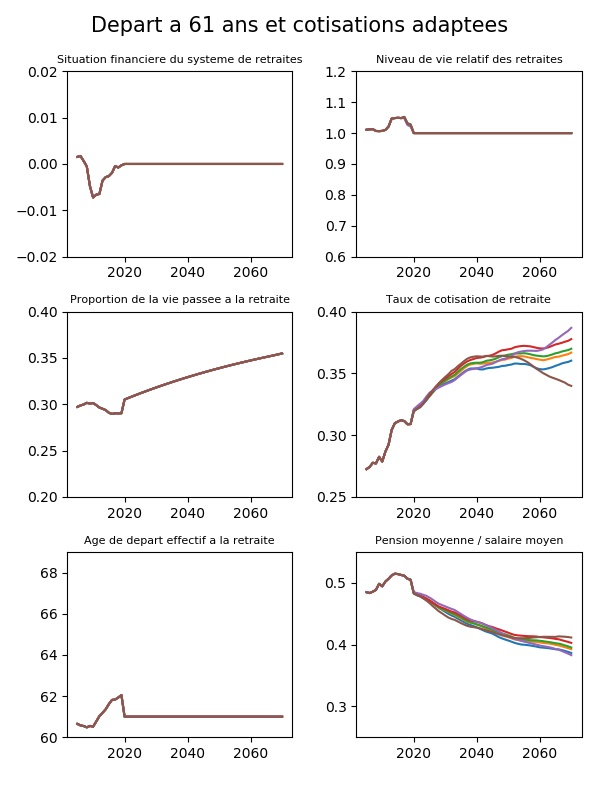
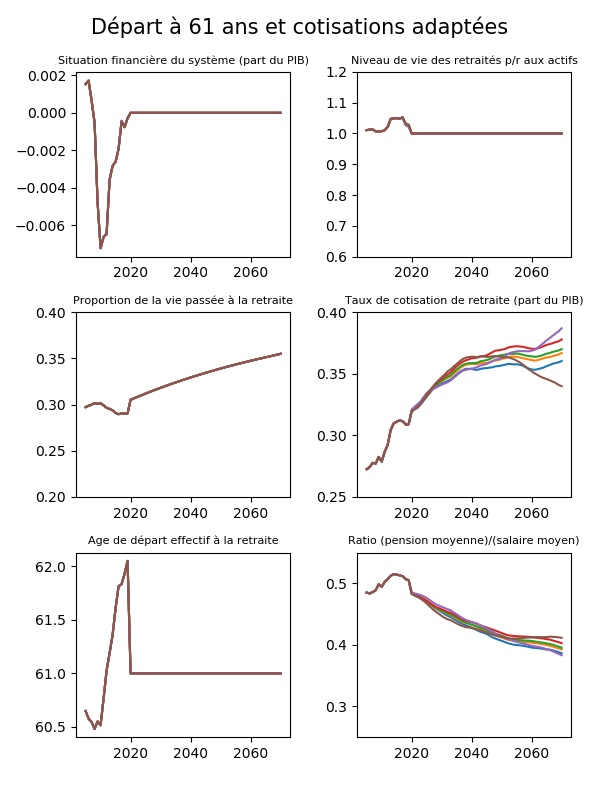
graphismes

diff --git a/demo.py b/demo.py
@@ -8,24 +8,26 @@ from retraites import *
 
 def graphique(v,t,rg=[],an=annees):
     for s in scenarios:
-        plot(an, [ v[s][a] for a in an ])
-    title(t,fontsize=8)
+        plot(an, [ v[s][a] for a in an ])#, label="%d"%s)
+    title(t.decode("utf-8"),fontsize=8)
     if rg!=[]:
         ylim(bottom=rg[0],top=rg[1])
     
+    
 def graphiques(T, P, A, S, RNV, REV, B):
     subplot(3,2,1)
-    graphique(S,"Situation financiere du systeme de retraites")#,[-0.02,0.02] )
+    graphique(S,"Situation financière du système (part du PIB)")#,[-0.02,0.02] )
     subplot(3,2,2)
-    graphique(RNV,"Niveau de vie relatif des retraites", [0.6,1.2])
+    graphique(RNV,"Niveau de vie des retraités p/r aux actifs", [0.6,1.2])
     subplot(3,2,3)
-    graphique(REV,"Proportion de la vie passee a la retraite", [0.2,0.4])
+    graphique(REV,"Proportion de la vie passée à la retraite", [0.2,0.4])
     subplot(3,2,4)
-    graphique(T,"Taux de cotisation de retraite", [0.25,0.4] )
+    graphique(T,"Taux de cotisation de retraite (part du PIB)", [0.25,0.4] )
     subplot(3,2,5)
-    graphique(A,"Age de depart effectif a la retraite")#, [60,65])
+    graphique(A,"Age de départ effectif à la retraite")#, [60,65])
     subplot(3,2,6)
-    graphique(P,"Pension moyenne / salaire moyen", [.25,.55] )
+    graphique(P,"Ratio (pension moyenne)/(salaire moyen)", [.25,.55] )
+    #legend(loc='best')
     tight_layout(rect=[0, 0.03, 1, 0.95])
 
     
@@ -67,25 +69,25 @@ def simu1():
     B,NR,NC,G,dP,TPR,TPS,CNV,EV=get('B'),get('NR'),get('NC'),get('G'),get('dP'),get('TCR'),get('TCS'),get('CNV'),get('EV')
     
     figure(figsize=(10,8))
-    suptitle("Conjoncture",fontsize=15)
+    suptitle("Conjoncture (projections COR)",fontsize=15)
     subplot(3,3,1)
-    graphique(B,"B:Part des revenus d activite bruts dans le PIB")
+    graphique(B,"B: Part des revenus d'activité bruts dans le PIB")
     subplot(3,3,2)
-    graphique(NR,"NR:Nombre de retraites")
+    graphique(NR,"NR: Nombre de retraites")
     subplot(3,3,3)
-    graphique(NC,"NC:Nombre de cotisants")
+    graphique(NC,"NC: Nombre de cotisants")
     subplot(3,3,4)
-    graphique(G,"G:Effectif d une generation arrivant a l age de la retraite")
+    graphique(G,"G: Effectif d une generation arrivant a l age de la retraite")
     subplot(3,3,5)
-    graphique(dP,"dP:Autres depenses de retraites")
+    graphique(dP,"dP: Autres dépenses de retraites")
     subplot(3,3,6)
-    graphique(TPR,"TPR:Taux de prelevement sur les retraites")
+    graphique(TPR,"TPR: Taux de prélèvement sur les retraites")
     subplot(3,3,7)
-    graphique(TPS,"TPS:Taux de prelevement sur les salaires")
+    graphique(TPS,"TPS: Taux de prélèvement sur les salaires")
     subplot(3,3,8)
-    graphique(CNV,"CNV:(niveau de vie)/(pension/salaire)")        
+    graphique(CNV,"CNV: (niveau de vie)/[(pension moy))/(salaire moy)]")        
     subplot(3,3,9)
-    graphique(EV, "Esperance de vie a 60 ans",[],annees_EV)
+    graphique(EV, "EV: Espérance de vie à 60 ans",[],annees_EV)
     tight_layout(rect=[0, 0.03, 1, 0.95])
     
     savefig("conjoncture.jpg")
@@ -99,9 +101,9 @@ def simu2(ages=[61,0]):
 
         figure(figsize=(6,8))
         if d!=0:
-            suptitle('Depart a %d ans et cotisations adaptees'%(d),fontsize=15)
+            suptitle( ('Départ à %d ans et cotisations adaptées'%(d)).decode("utf-8"),fontsize=15)
         else:
-            suptitle('Cotisations adaptees',fontsize=15)
+            suptitle('Cotisations adaptées'.decode("utf-8"),fontsize=15)
                 
         Ts,Ps,As = calcule_Ts_Ps_As_fixant_As_RNV_S(d)
         S,RNV,REV = calcule_S_RNV_REV(Ts,Ps,As)
@@ -119,7 +121,7 @@ def simu2(ages=[61,0]):
 def simu3(Ts=0):
     
     figure(figsize=(6,8))
-    suptitle('Reforme Macron, maintien du niveau de vie',fontsize=15)
+    suptitle('Réforme Macron, maintien du niveau de vie'.decode("utf-8"),fontsize=15)
                 
     Ts,Ps,As = calcule_Ts_Ps_As_fixant_Ts_RNV_S(Ts)
     S,RNV,REV = calcule_S_RNV_REV(Ts,Ps,As)
@@ -140,7 +142,7 @@ def simu3(Ts=0):
 def simu4(Ps=0,Ts=0):
     
     figure(figsize=(6,8))
-    suptitle('Reforme Macron, point indexe sur le salaire moyen',fontsize=15)
+    suptitle('Réforme Macron, indexation (pension moy)/(salaire moy) fixe'.decode("utf-8"),fontsize=13)
                 
     Ts,Ps,As = calcule_Ts_Ps_As_fixant_Ps_Ts_S(Ps,Ts)
     S,RNV,REV = calcule_S_RNV_REV(Ts,Ps,As)
@@ -152,8 +154,7 @@ def simu4(Ps=0,Ts=0):
     
     savefig("macron_point_indexe.jpg")
 
-    
-            
+          
 simu0()
 simu1()
 simu2()
